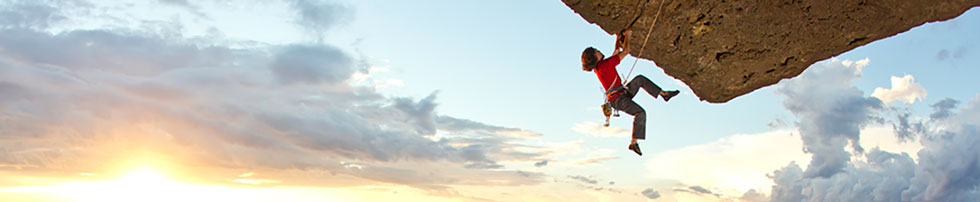
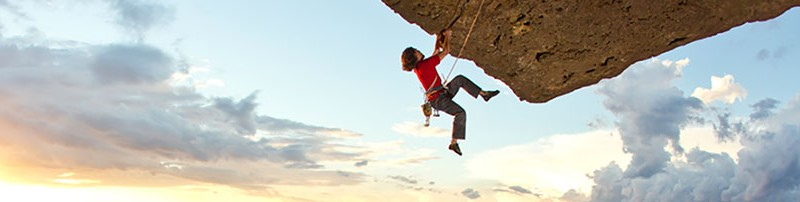
Art321 Size Fix

diff --git a/Art321/style.css b/Art321/style.css
@@ -49,5 +49,5 @@ h3.title {
 h4.body {
 	color: white;
 	font-family: 'Roboto', sans-serif;	
-	width: 980px;
+	width: 800px;
 }
